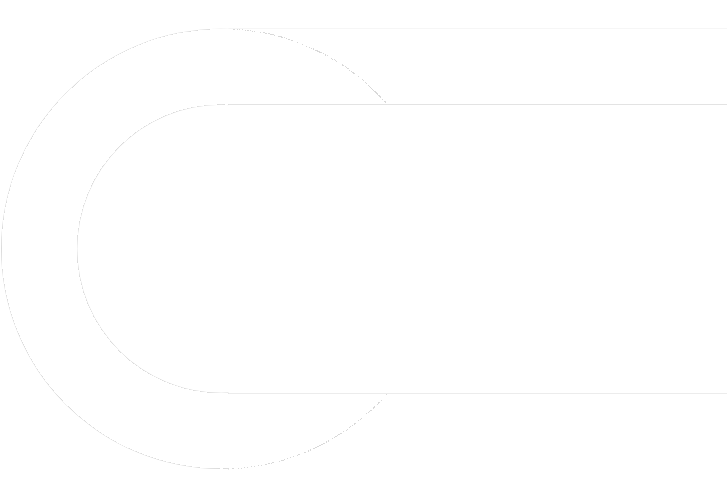
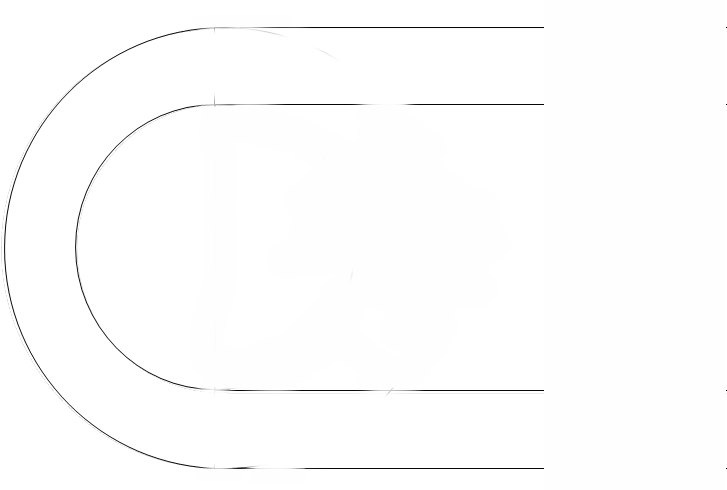
Updates

diff --git a/index.html b/index.html
@@ -1,1 +1,1 @@
-<!doctype html><html lang="en"><head><meta charset="utf-8"/><link rel="icon" href="/gauge/favicon.ico"/><meta name="viewport" content="width=device-width,initial-scale=1"/><meta name="theme-color" content="#000000"/><meta name="description" content="Web site created using create-react-app"/><link rel="apple-touch-icon" href="/gauge/logo192.png"/><link rel="manifest" href="/gauge/manifest.json"/><title>React App</title><link href="/gauge/static/css/main.4ef80227.chunk.css" rel="stylesheet"></head><body><noscript>You need to enable JavaScript to run this app.</noscript><div id="root"></div><script>!function(e){function r(r){for(var n,a,l=r[0],f=r[1],i=r[2],c=0,s=[];c<l.length;c++)a=l[c],Object.prototype.hasOwnProperty.call(o,a)&&o[a]&&s.push(o[a][0]),o[a]=0;for(n in f)Object.prototype.hasOwnProperty.call(f,n)&&(e[n]=f[n]);for(p&&p(r);s.length;)s.shift()();return u.push.apply(u,i||[]),t()}function t(){for(var e,r=0;r<u.length;r++){for(var t=u[r],n=!0,l=1;l<t.length;l++){var f=t[l];0!==o[f]&&(n=!1)}n&&(u.splice(r--,1),e=a(a.s=t[0]))}return e}var n={},o={1:0},u=[];function a(r){if(n[r])return n[r].exports;var t=n[r]={i:r,l:!1,exports:{}};return e[r].call(t.exports,t,t.exports,a),t.l=!0,t.exports}a.m=e,a.c=n,a.d=function(e,r,t){a.o(e,r)||Object.defineProperty(e,r,{enumerable:!0,get:t})},a.r=function(e){"undefined"!=typeof Symbol&&Symbol.toStringTag&&Object.defineProperty(e,Symbol.toStringTag,{value:"Module"}),Object.defineProperty(e,"__esModule",{value:!0})},a.t=function(e,r){if(1&r&&(e=a(e)),8&r)return e;if(4&r&&"object"==typeof e&&e&&e.__esModule)return e;var t=Object.create(null);if(a.r(t),Object.defineProperty(t,"default",{enumerable:!0,value:e}),2&r&&"string"!=typeof e)for(var n in e)a.d(t,n,function(r){return e[r]}.bind(null,n));return t},a.n=function(e){var r=e&&e.__esModule?function(){return e.default}:function(){return e};return a.d(r,"a",r),r},a.o=function(e,r){return Object.prototype.hasOwnProperty.call(e,r)},a.p="/gauge/";var l=this.webpackJsonpgauge=this.webpackJsonpgauge||[],f=l.push.bind(l);l.push=r,l=l.slice();for(var i=0;i<l.length;i++)r(l[i]);var p=f;t()}([])</script><script src="/gauge/static/js/2.d562e172.chunk.js"></script><script src="/gauge/static/js/main.fa4c02bd.chunk.js"></script></body></html>
+<!doctype html><html lang="en"><head><meta charset="utf-8"/><link rel="icon" href="/favicon.ico"/><meta name="viewport" content="width=device-width,initial-scale=1"/><meta name="theme-color" content="#000000"/><meta name="description" content="Web site created using create-react-app"/><link rel="apple-touch-icon" href="/logo192.png"/><link rel="manifest" href="/manifest.json"/><title>React App</title><link href="/static/css/main.4ef80227.chunk.css" rel="stylesheet"></head><body><noscript>You need to enable JavaScript to run this app.</noscript><div id="root"></div><script>!function(e){function r(r){for(var n,l,a=r[0],f=r[1],i=r[2],c=0,s=[];c<a.length;c++)l=a[c],Object.prototype.hasOwnProperty.call(o,l)&&o[l]&&s.push(o[l][0]),o[l]=0;for(n in f)Object.prototype.hasOwnProperty.call(f,n)&&(e[n]=f[n]);for(p&&p(r);s.length;)s.shift()();return u.push.apply(u,i||[]),t()}function t(){for(var e,r=0;r<u.length;r++){for(var t=u[r],n=!0,a=1;a<t.length;a++){var f=t[a];0!==o[f]&&(n=!1)}n&&(u.splice(r--,1),e=l(l.s=t[0]))}return e}var n={},o={1:0},u=[];function l(r){if(n[r])return n[r].exports;var t=n[r]={i:r,l:!1,exports:{}};return e[r].call(t.exports,t,t.exports,l),t.l=!0,t.exports}l.m=e,l.c=n,l.d=function(e,r,t){l.o(e,r)||Object.defineProperty(e,r,{enumerable:!0,get:t})},l.r=function(e){"undefined"!=typeof Symbol&&Symbol.toStringTag&&Object.defineProperty(e,Symbol.toStringTag,{value:"Module"}),Object.defineProperty(e,"__esModule",{value:!0})},l.t=function(e,r){if(1&r&&(e=l(e)),8&r)return e;if(4&r&&"object"==typeof e&&e&&e.__esModule)return e;var t=Object.create(null);if(l.r(t),Object.defineProperty(t,"default",{enumerable:!0,value:e}),2&r&&"string"!=typeof e)for(var n in e)l.d(t,n,function(r){return e[r]}.bind(null,n));return t},l.n=function(e){var r=e&&e.__esModule?function(){return e.default}:function(){return e};return l.d(r,"a",r),r},l.o=function(e,r){return Object.prototype.hasOwnProperty.call(e,r)},l.p="/";var a=this.webpackJsonpgauge=this.webpackJsonpgauge||[],f=a.push.bind(a);a.push=r,a=a.slice();for(var i=0;i<a.length;i++)r(a[i]);var p=f;t()}([])</script><script src="/static/js/2.d562e172.chunk.js"></script><script src="/static/js/main.cd1cbfa3.chunk.js"></script></body></html>

diff --git a/static/js/main.cd1cbfa3.chunk.js b/static/js/main.cd1cbfa3.chunk.js
@@ -1,0 +1,1 @@
+(this.webpackJsonpgauge=this.webpackJsonpgauge||[]).push([[0],{10:function(e,t,o){"use strict";o.r(t);var n=o(0),a=o.n(n),i=o(2),r=o.n(i),l=(o(9),o(3));var s=function(){var e=Object(n.useState)(3e3),t=Object(l.a)(e,2),o=t[0],i=t[1];Object(n.useEffect)((function(){setTimeout((function(){o<15e3&&i(o+10)}),20)}),[o]);var r=Object(n.useCallback)((function(){return o<1e4?"black":o>1e4&&o<15e3?"blue":"red"}),[o]);return a.a.createElement("div",{style:{position:"relative",filter:"grayscale(".concat(100-o/100,"%)")}},a.a.createElement("div",{style:{position:"absolute",top:0,left:0,background:"linear-gradient(to right top, #65eefe ,#1fa4fb)",height:250,width:360}}),a.a.createElement("div",{style:{position:"absolute",top:250,left:0,background:"linear-gradient(to left top, white 20%, #65eefe)",height:240,width:360}}),a.a.createElement("div",{style:{position:"absolute",top:0,left:360,background:"linear-gradient(to right, #1fa4fb 40% , blue)",height:240,width:360}}),a.a.createElement("div",{style:{position:"absolute",top:250,left:360,backgroundColor:"white",height:240,width:360}}),a.a.createElement("div",{style:{position:"absolute",top:300,left:0,backgroundColor:"white",height:500,width:420,transform:"rotate(".concat(o/100+40,"deg)"),transformOrigin:"right 10px"}}),a.a.createElement("div",{style:{position:"absolute",top:300,left:0,backgroundColor:"white",height:500,width:400,transform:"rotate(".concat(o/100+130,"deg)"),transformOrigin:"right 10px"}}),a.a.createElement("img",{style:{position:"absolute",top:0,left:0},src:"/images/gauge.png"}),a.a.createElement("div",{style:{fontSize:70,position:"absolute",top:220,left:180}},a.a.createElement("span",{style:{fontSize:70,color:r()}},(o/100).toString().split(".")[0]),a.a.createElement("span",{style:{fontSize:40,color:r()}},".",(o/100).toFixed(2).toString().split(".")[1]),a.a.createElement("span",{style:{fontSize:40}},"/100")),a.a.createElement("div",{style:{fontSize:70,position:"absolute",top:210,left:170,opacity:.15}},a.a.createElement("span",{style:{fontSize:70}},(o/100).toString().split(".")[0]),a.a.createElement("span",{style:{fontSize:40}},".",(o/100).toFixed(2).toString().split(".")[1],"/100")))};Boolean("localhost"===window.location.hostname||"[::1]"===window.location.hostname||window.location.hostname.match(/^127(?:\.(?:25[0-5]|2[0-4][0-9]|[01]?[0-9][0-9]?)){3}$/));r.a.render(a.a.createElement(a.a.StrictMode,null,a.a.createElement(s,null)),document.getElementById("root")),"serviceWorker"in navigator&&navigator.serviceWorker.ready.then((function(e){e.unregister()})).catch((function(e){console.error(e.message)}))},4:function(e,t,o){e.exports=o(10)},9:function(e,t,o){}},[[4,1,2]]]);

diff --git a/static/js/runtime-main.b6d5fc71.js b/static/js/runtime-main.b6d5fc71.js
@@ -1,0 +1,1 @@
+!function(e){function r(r){for(var n,l,a=r[0],f=r[1],i=r[2],c=0,s=[];c<a.length;c++)l=a[c],Object.prototype.hasOwnProperty.call(o,l)&&o[l]&&s.push(o[l][0]),o[l]=0;for(n in f)Object.prototype.hasOwnProperty.call(f,n)&&(e[n]=f[n]);for(p&&p(r);s.length;)s.shift()();return u.push.apply(u,i||[]),t()}function t(){for(var e,r=0;r<u.length;r++){for(var t=u[r],n=!0,a=1;a<t.length;a++){var f=t[a];0!==o[f]&&(n=!1)}n&&(u.splice(r--,1),e=l(l.s=t[0]))}return e}var n={},o={1:0},u=[];function l(r){if(n[r])return n[r].exports;var t=n[r]={i:r,l:!1,exports:{}};return e[r].call(t.exports,t,t.exports,l),t.l=!0,t.exports}l.m=e,l.c=n,l.d=function(e,r,t){l.o(e,r)||Object.defineProperty(e,r,{enumerable:!0,get:t})},l.r=function(e){"undefined"!==typeof Symbol&&Symbol.toStringTag&&Object.defineProperty(e,Symbol.toStringTag,{value:"Module"}),Object.defineProperty(e,"__esModule",{value:!0})},l.t=function(e,r){if(1&r&&(e=l(e)),8&r)return e;if(4&r&&"object"===typeof e&&e&&e.__esModule)return e;var t=Object.create(null);if(l.r(t),Object.defineProperty(t,"default",{enumerable:!0,value:e}),2&r&&"string"!=typeof e)for(var n in e)l.d(t,n,function(r){return e[r]}.bind(null,n));return t},l.n=function(e){var r=e&&e.__esModule?function(){return e.default}:function(){return e};return l.d(r,"a",r),r},l.o=function(e,r){return Object.prototype.hasOwnProperty.call(e,r)},l.p="/";var a=this.webpackJsonpgauge=this.webpackJsonpgauge||[],f=a.push.bind(a);a.push=r,a=a.slice();for(var i=0;i<a.length;i++)r(a[i]);var p=f;t()}([]);

diff --git a/service-worker.js b/service-worker.js
@@ -14,7 +14,7 @@
 importScripts("https://storage.googleapis.com/workbox-cdn/releases/4.3.1/workbox-sw.js");
 
 importScripts(
-  "/gauge/precache-manifest.aa537c046ca2a7bc901a07530de1dff2.js"
+  "/precache-manifest.5a687746dece2c0e408eb6a51cf801ab.js"
 );
 
 self.addEventListener('message', (event) => {
@@ -33,7 +33,7 @@ workbox.core.clientsClaim();
 self.__precacheManifest = [].concat(self.__precacheManifest || []);
 workbox.precaching.precacheAndRoute(self.__precacheManifest, {});
 
-workbox.routing.registerNavigationRoute(workbox.precaching.getCacheKeyForURL("/gauge/index.html"), {
+workbox.routing.registerNavigationRoute(workbox.precaching.getCacheKeyForURL("/index.html"), {
   
   blacklist: [/^\/_/,/\/[^\/?]+\.[^\/]+$/],
 });

diff --git a/precache-manifest.5a687746dece2c0e408eb6a51cf801ab.js b/precache-manifest.5a687746dece2c0e408eb6a51cf801ab.js
@@ -1,0 +1,26 @@
+self.__precacheManifest = (self.__precacheManifest || []).concat([
+  {
+    "revision": "784373daac8def34112d094bbf5a8086",
+    "url": "/index.html"
+  },
+  {
+    "revision": "3c227b26b7504ea9cb49",
+    "url": "/static/css/main.4ef80227.chunk.css"
+  },
+  {
+    "revision": "547620171ca15bd68ce7",
+    "url": "/static/js/2.d562e172.chunk.js"
+  },
+  {
+    "revision": "e88a3e95b5364d46e95b35ae8c0dc27d",
+    "url": "/static/js/2.d562e172.chunk.js.LICENSE.txt"
+  },
+  {
+    "revision": "3c227b26b7504ea9cb49",
+    "url": "/static/js/main.cd1cbfa3.chunk.js"
+  },
+  {
+    "revision": "1df2f1921da12fb8ddcd",
+    "url": "/static/js/runtime-main.b6d5fc71.js"
+  }
+]);
